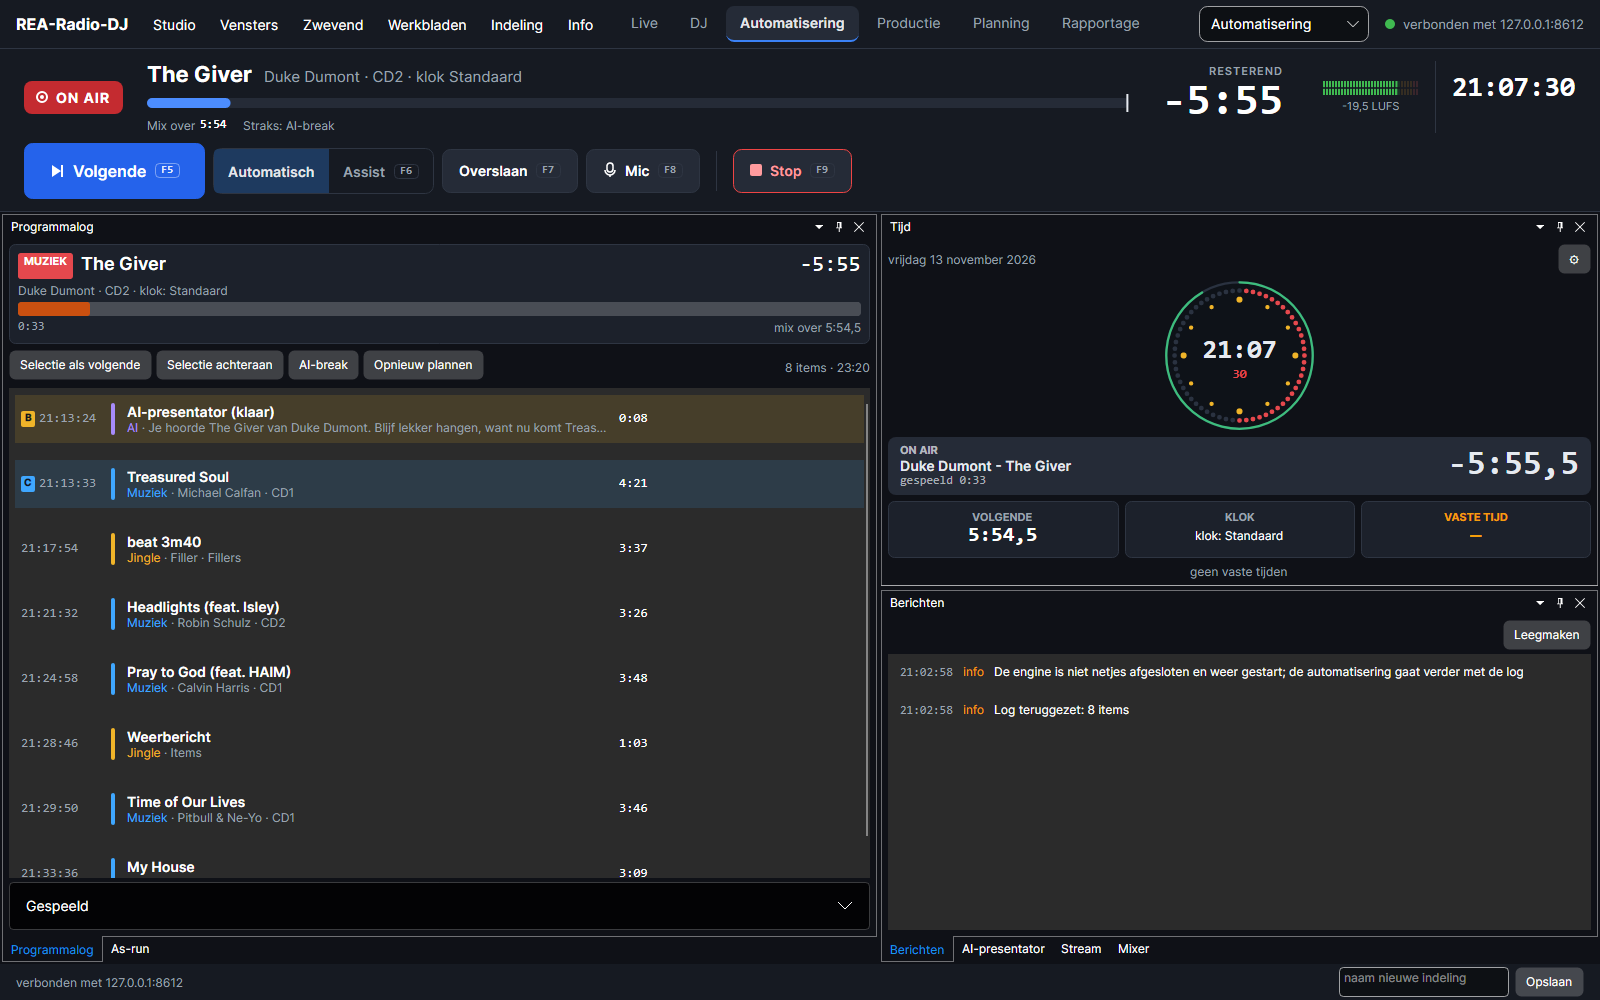
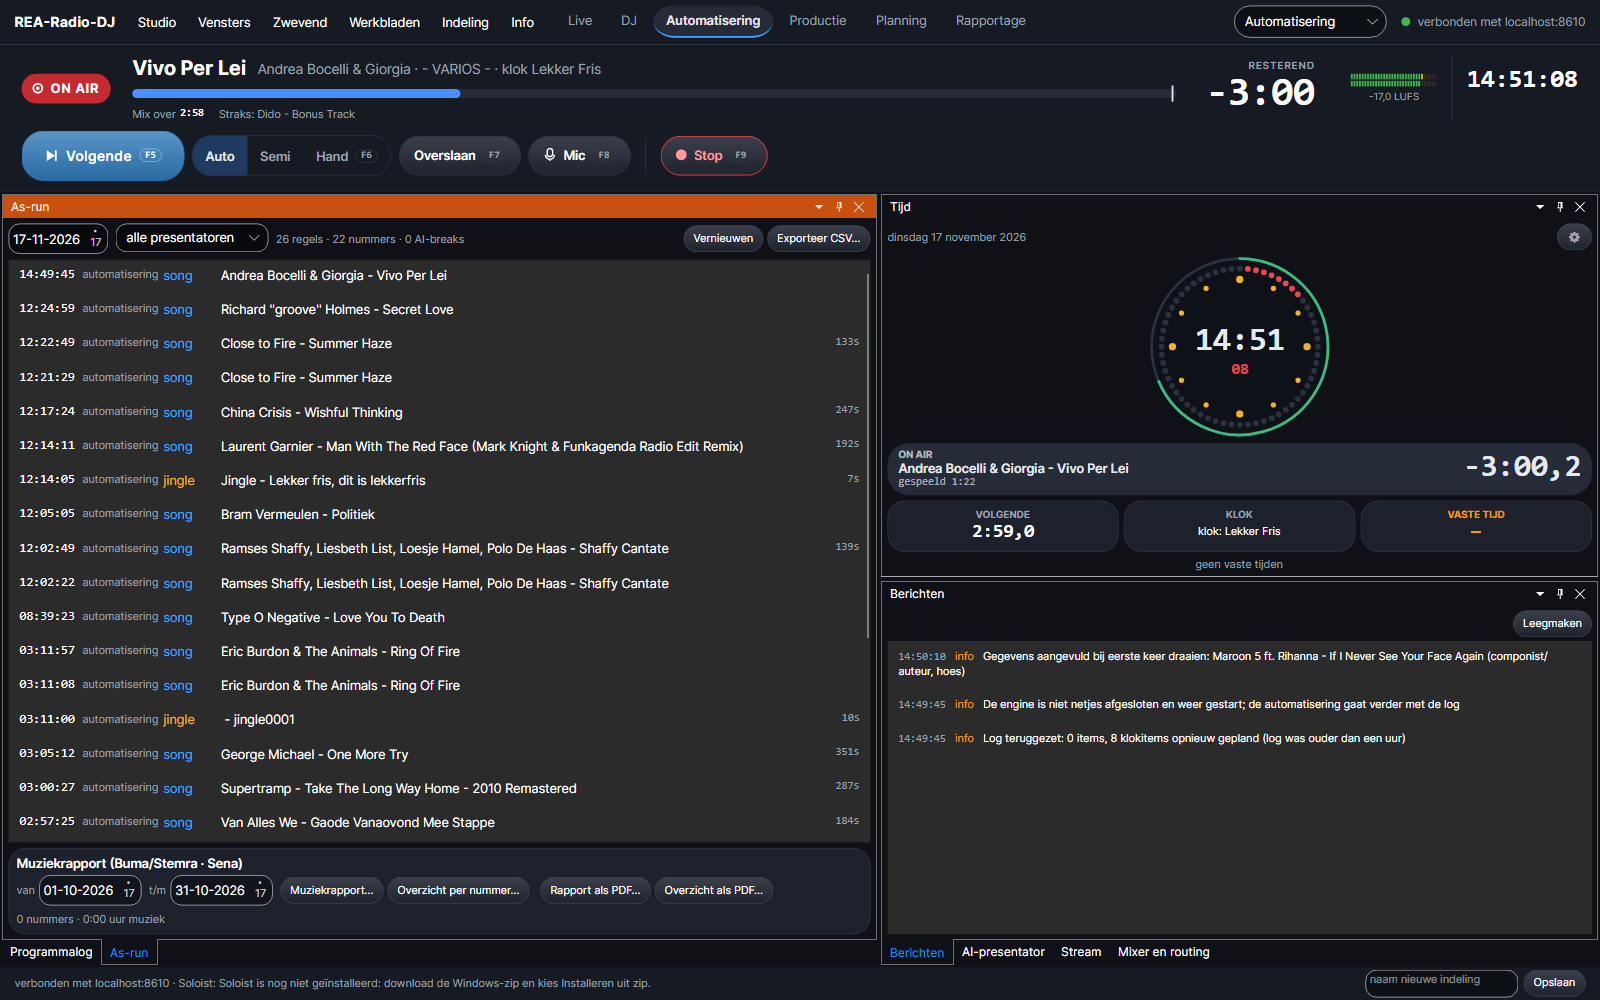
Prepare 1.2.0-rc.3: version, changelog, README screenshots in four languages
New: Live in English, German and Spanish for the translated READMEs, the
Recordings and Placeholders windows, and fresh Live, Automation and Planning.

diff --git a/README.es.md b/README.es.md
@@ -17,18 +17,20 @@ Cómo se trabaja con él, en el estudio y como administrador, está en el [manua
 
 ## Capturas de pantalla
 
-![El espacio de trabajo Live: barra en antena, biblioteca, platos en directo, pauta, cartwall y mezclador](docs/screenshots/live.png)
+![El espacio de trabajo Live: barra en antena, biblioteca, platos en directo, pauta, cartwall y mezclador](docs/screenshots/live-es.png)
 
 | | |
 |---|---|
-| ![Modo DJ con dos platos, stems, mezclador y efectos](docs/screenshots/dj-modus.png) | ![Automatización con la pauta, el reloj y los mensajes](docs/screenshots/automatisering.png) |
-| **Modo DJ**: platos con forma de onda y líneas de beat, stems (voz, batería, bajo, resto), mezclador y efectos | **Automatización**: pauta con presentador de IA, reloj y mensajes |
+| ![Modo DJ con dos platos, stems, mezclador y efectos](docs/screenshots/dj-modus.png) | ![Automatización con el as-run, el reloj y los mensajes](docs/screenshots/automatisering.png) |
+| **Modo DJ**: platos con forma de onda y líneas de beat, stems (voz, batería, bajo, resto), mezclador y efectos | **Automatización**: as-run con lo emitido, el reloj con lo que viene y los mensajes |
 | ![Producción con biblioteca, editor de cues y voicetracking](docs/screenshots/productie.png) | ![Planificación con el planificador, la publicidad y la pauta](docs/screenshots/planning.png) |
 | **Producción**: biblioteca, editor de cues, voicetracking y PFL | **Planificación**: día, semana, relojes y horas fijas, campañas publicitarias |
 | ![Informes con as-run, informe musical, stream y sala de control](docs/screenshots/rapportage.png) | ![La ventana Salidas con un medidor grande y una luz de abierto por canal](docs/screenshots/uitsturing.png) |
 | **Informes**: as-run, informe musical (CSV y PDF), stream y sala de control | **Salidas**: programa con loudness y por canal un medidor con ABIERTO/CERRADO |
-| ![Conexiones con dos líneas VoIP por Opus, con medición](docs/screenshots/verbindingen.png) | |
-| **Conexiones**: dos líneas VoIP, aquí con Opus, con pérdida, jitter y búfer | |
+| ![Conexiones con dos líneas VoIP por Opus, con medición](docs/screenshots/verbindingen.png) | ![La ventana Grabaciones con la grabación de emergencia y las grabaciones programadas](docs/screenshots/opnames.png) |
+| **Conexiones**: dos líneas VoIP, aquí con Opus, con pérdida, jitter y búfer | **Grabaciones**: la grabación de emergencia con un botón y grabaciones programadas de una entrada o stream (p. ej. las noticias regionales) |
+| ![Marcadores: programar publicidad mientras el audio aún tiene que llegar](docs/screenshots/plaatshouders.png) | |
+| **Marcadores**: programar una cuña ya; un aviso antes y una alarma si llega tarde | |
 
 Cada ventana se puede arrastrar, acoplar o dejar flotando, también en una segunda pantalla.
 

diff --git a/README.de.md b/README.de.md
@@ -17,18 +17,20 @@ Wie man damit arbeitet, im Studio und als Administrator, steht im [Handbuch](doc
 
 ## Bildschirmfotos
 
-![Der Arbeitsbereich Live: On-Air-Leiste, Bibliothek, Live-Decks, Sendeablauf, Cartwall und Mixer](docs/screenshots/live.png)
+![Der Arbeitsbereich Live: On-Air-Leiste, Bibliothek, Live-Decks, Sendeablauf, Cartwall und Mixer](docs/screenshots/live-de.png)
 
 | | |
 |---|---|
-| ![DJ-Modus mit zwei Decks, Stems, Mischpult und Effekten](docs/screenshots/dj-modus.png) | ![Automatisierung mit Sendeablauf, Uhr und Meldungen](docs/screenshots/automatisering.png) |
-| **DJ-Modus**: Decks mit Wellenform und Beatlinien, Stems (Gesang, Drums, Bass, Rest), Mischpult und Effekte | **Automatisierung**: Sendeablauf mit KI-Moderator, Uhr und Meldungen |
+| ![DJ-Modus mit zwei Decks, Stems, Mischpult und Effekten](docs/screenshots/dj-modus.png) | ![Automatisierung mit As-run, Uhr und Meldungen](docs/screenshots/automatisering.png) |
+| **DJ-Modus**: Decks mit Wellenform und Beatlinien, Stems (Gesang, Drums, Bass, Rest), Mischpult und Effekte | **Automatisierung**: As-run mit dem Gespielten, die Uhr mit dem, was kommt, und die Meldungen |
 | ![Produktion mit Bibliothek, Cue-Editor und Voicetracking](docs/screenshots/productie.png) | ![Planung mit Planer, Werbung und Sendeablauf](docs/screenshots/planning.png) |
 | **Produktion**: Bibliothek, Cue-Editor, Voicetracking und PFL | **Planung**: Tag, Woche, Uhren und feste Zeiten, Werbekampagnen |
 | ![Berichte mit As-run, Musikbericht, Stream und Regieraum](docs/screenshots/rapportage.png) | ![Das Fenster Ausgabe mit großem Meter und einer Offen-Lampe pro Kanal](docs/screenshots/uitsturing.png) |
 | **Berichte**: As-run, Musikbericht (CSV und PDF), Stream und Regieraum | **Ausgabe**: Programm mit Lautheit und pro Kanal ein Meter mit OFFEN/ZU |
-| ![Verbindungen mit zwei VoIP-Leitungen über Opus, mit Messung](docs/screenshots/verbindingen.png) | |
-| **Verbindungen**: zwei VoIP-Leitungen, hier mit Opus, mit Verlust, Jitter und Puffer | |
+| ![Verbindungen mit zwei VoIP-Leitungen über Opus, mit Messung](docs/screenshots/verbindingen.png) | ![Das Fenster Aufnahmen mit Notaufnahme und geplanten Aufnahmen](docs/screenshots/opnames.png) |
+| **Verbindungen**: zwei VoIP-Leitungen, hier mit Opus, mit Verlust, Jitter und Puffer | **Aufnahmen**: die Notaufnahme mit einem Knopf und geplante Aufnahmen eines Eingangs oder Streams (z. B. die Regionalnachrichten) |
+| ![Platzhalter: Werbung einplanen, während der Ton noch kommt](docs/screenshots/plaatshouders.png) | |
+| **Platzhalter**: einen Spot schon einplanen; eine Warnung vorab und ein Alarm, wenn er zu spät ist | |
 
 Jedes Fenster lässt sich verschieben, andocken oder schwebend lassen, auch auf einem zweiten Bildschirm.
 

diff --git a/README.en.md b/README.en.md
@@ -17,18 +17,20 @@ How to work with it, in the studio and as an administrator, is in the [manual](d
 
 ## Screenshots
 
-![The Live workspace: on-air bar, library, live decks, programme log, cart wall and mixer](docs/screenshots/live.png)
+![The Live workspace: on-air bar, library, live decks, programme log, cart wall and mixer](docs/screenshots/live-en.png)
 
 | | |
 |---|---|
-| ![DJ mode with two decks, stems, mixer and effects](docs/screenshots/dj-modus.png) | ![Automation with the programme log, clock and messages](docs/screenshots/automatisering.png) |
-| **DJ mode**: decks with waveform and beat lines, stems (vocals, drums, bass, other), mixer and effects | **Automation**: programme log with AI presenter, clock and messages |
+| ![DJ mode with two decks, stems, mixer and effects](docs/screenshots/dj-modus.png) | ![Automation with as-run, clock and messages](docs/screenshots/automatisering.png) |
+| **DJ mode**: decks with waveform and beat lines, stems (vocals, drums, bass, other), mixer and effects | **Automation**: as-run with what has played, the clock with what is coming, and the messages |
 | ![Production with library, cue editor and voice tracking](docs/screenshots/productie.png) | ![Planning with the planner, ads and programme log](docs/screenshots/planning.png) |
 | **Production**: library, cue editor, voice tracking and PFL | **Planning**: day, week, clocks and fixed times, ad campaigns |
 | ![Reports with as-run, music report, stream and control room](docs/screenshots/rapportage.png) | ![The Output window with a big meter and an open light per channel](docs/screenshots/uitsturing.png) |
 | **Reporting**: as-run, music report (CSV and PDF), stream and control room | **Outputs**: programme with loudness and per channel a meter with OPEN/CLOSED |
-| ![Connections with two VoIP lines over Opus, with measurements](docs/screenshots/verbindingen.png) | |
-| **Connections**: two VoIP lines, here with Opus, with loss, jitter and buffer | |
+| ![Connections with two VoIP lines over Opus, with measurements](docs/screenshots/verbindingen.png) | ![The Recordings window with the emergency recorder and scheduled recordings](docs/screenshots/opnames.png) |
+| **Connections**: two VoIP lines, here with Opus, with loss, jitter and buffer | **Recordings**: the one-button emergency recorder, and scheduled recordings of an input or stream (e.g. the regional news) |
+| ![Placeholders: plan an ad while the sound is still to come](docs/screenshots/plaatshouders.png) | |
+| **Placeholders**: plan a spot already; a warning beforehand and an alarm if it is late | |
 
 Every window can be dragged, docked or left floating, also on a second screen.
 

diff --git a/README.md b/README.md
@@ -22,14 +22,16 @@ Hoe je ermee werkt, in de studio en als beheerder, staat in de [handleiding](doc
 
 | | |
 |---|---|
-| ![DJ-modus met twee decks, stems, mengpaneel en effecten](docs/screenshots/dj-modus.png) | ![Automatisering met de programmalog, klok en berichten](docs/screenshots/automatisering.png) |
-| **DJ-modus**: decks met golfvorm en beatstrepen, stems (zang, drums, bas, rest), mengpaneel en effecten | **Automatisering**: programmalog met AI-presentator, klok en berichten |
+| ![DJ-modus met twee decks, stems, mengpaneel en effecten](docs/screenshots/dj-modus.png) | ![Automatisering met as-run, klok en berichten](docs/screenshots/automatisering.png) |
+| **DJ-modus**: decks met golfvorm en beatstrepen, stems (zang, drums, bas, rest), mengpaneel en effecten | **Automatisering**: as-run met wat er gespeeld is, de klok met wat er komt, en de berichten |
 | ![Productie met bibliotheek, cue-editor en voicetracking](docs/screenshots/productie.png) | ![Planning met de planner, reclame en programmalog](docs/screenshots/planning.png) |
 | **Productie**: bibliotheek, cue-editor, voicetracking en PFL | **Planning**: dag, week, klokken en vaste tijden, reclamecampagnes |
 | ![Rapportage met as-run, muziekrapport, stream en regiekamer](docs/screenshots/rapportage.png) | ![Het venster Uitsturing met een grote meter en een open-lampje per kanaal](docs/screenshots/uitsturing.png) |
 | **Rapportage**: as-run, muziekrapport (CSV en PDF), stream en regiekamer | **Uitsturing**: programma met loudness en per kanaal een meter met OPEN/DICHT |
-| ![Verbindingen met twee VoIP-lijnen via Opus, met meting](docs/screenshots/verbindingen.png) | |
-| **Verbindingen**: twee VoIP-lijnen, hier met Opus, met verlies, jitter en buffer | |
+| ![Verbindingen met twee VoIP-lijnen via Opus, met meting](docs/screenshots/verbindingen.png) | ![Het venster Opnames met de noodopname en geplande opnames](docs/screenshots/opnames.png) |
+| **Verbindingen**: twee VoIP-lijnen, hier met Opus, met verlies, jitter en buffer | **Opnames**: de noodopname met één knop, en geplande opnames van een ingang of stream (bijv. het regionale nieuws) |
+| ![Plaatshouders: reclame inplannen terwijl het geluid nog moet komen](docs/screenshots/plaatshouders.png) | |
+| **Plaatshouders**: een spot alvast inplannen; een waarschuwing vooraf en een alarm als hij te laat is | |
 
 Elk venster is te verslepen, te docken of los te laten zweven, ook op een tweede scherm.
 

diff --git a/CHANGELOG.md b/CHANGELOG.md
@@ -2,7 +2,13 @@
 
 ## 1.2.0 (in ontwikkeling)
 
+Release candidates: 1.2.0-rc.1 (16 november 2026) en 1.2.0-rc.3 (17 november 2026), met de vier talen en alles
+vanaf *Geplande opnames* tot en met *Database-controle* hieronder.
+
 ### Nieuw
+- **Vier talen**: de studio, de webpagina's en het menu van de engine in het Nederlands, Engels, Duits of Spaans
+  (*Instellingen › Uiterlijk*). Datums, dagnamen en getallen volgen de taal. De AI-presentator spreekt de taal van
+  de zender. README in vier talen en de handleiding ook in het Engels (`docs/MANUAL.en.md`).
 - **Geplande opnames** van een ingang of internetstream (bijv. elke werkdag om 12:00 het regionale nieuws), direct in
   de bibliotheek; met *Vorige vervangen* blijft het hetzelfde item met steeds de nieuwste opname. Venster *Opnames*.
 - **Noodopname**: één knop of `RECORD TOGGLE` neemt alles op wat binnenkomt, elk kanaal apart; stille kanalen vallen weg.
